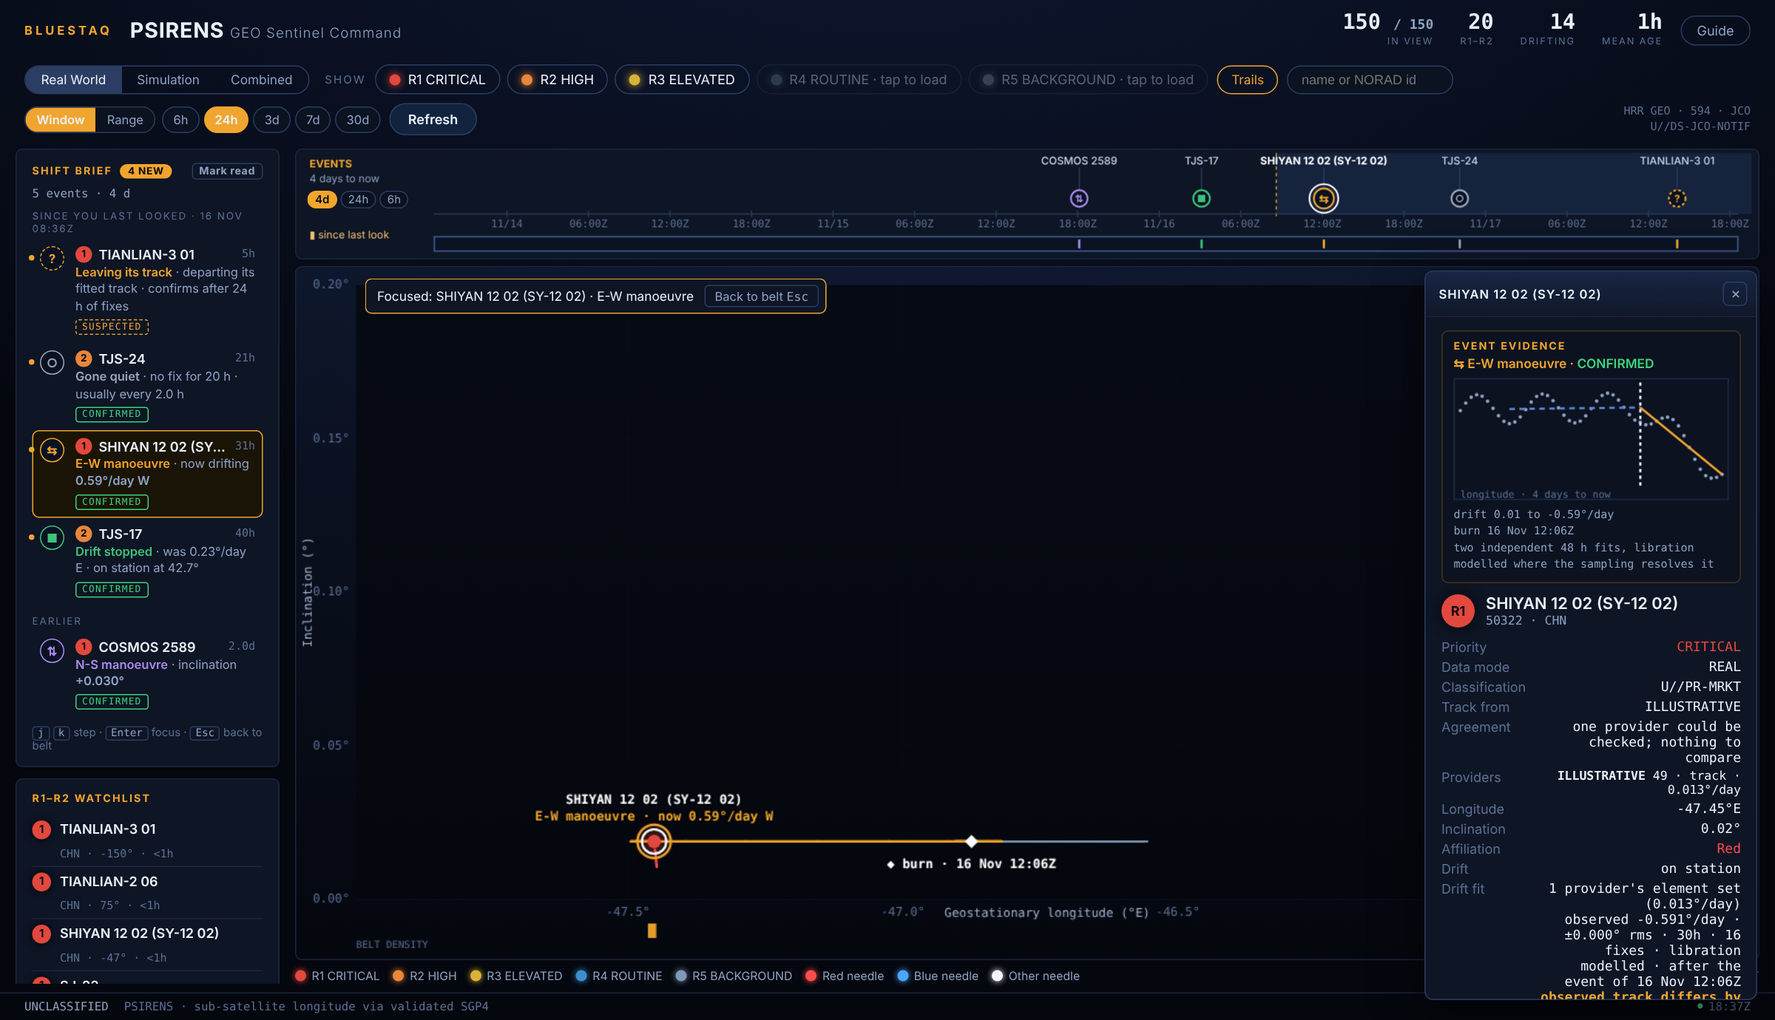
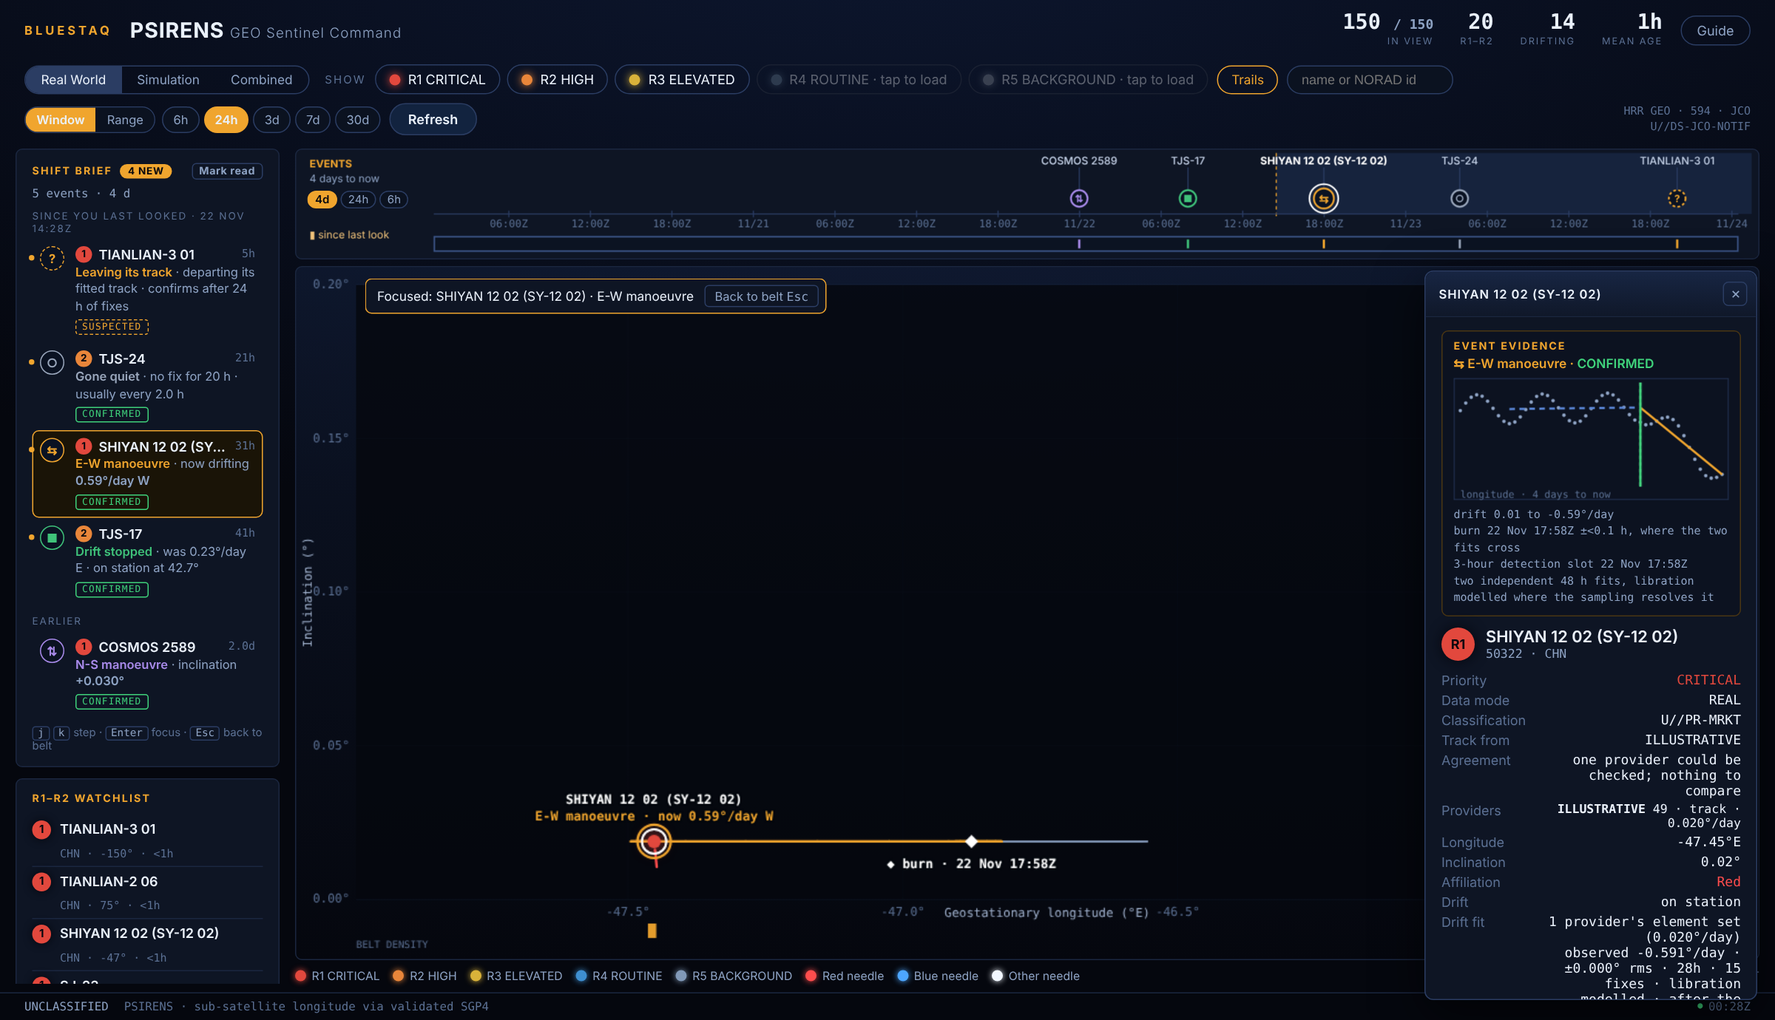
1.7.12: east-west burns timed where the before and after fits cross
Approved by Ash, 24 November 2026. The event epoch is the fit crossing,
refined three times and refused beyond 6 h of the 3-hour split (which then
stands); the id is keyed to the nearest hour; the stated half-width is 2.6
standard errors, measured to hold the true time 95 times in 100. The
evidence carries timed_by and crossing; the inspector states the burn time
with its range and the slot beneath it, the chart draws the crossing, and
the timeline list says 'the same minute' for crossing-timed burns.

Three server red cases (25 of 25 go red) and probe checks the 1.7.11 page
fails. Guide, figures, API reference and records updated.

Claude-Session: https://claude.ai/code/session_01K8o7Bfd3gt9XrWmiSEL7mf

Changed region(s): [[0.875, 0.6232, 1.0, 0.9971], [0.8125, 0.5297, 0.9688, 0.9036], [0.6562, 0.1558, 0.6875, 0.2181]]

diff --git a/src/psirens/static/guide.html b/src/psirens/static/guide.html
@@ -362,6 +362,17 @@ section.tourlit{box-shadow:0 0 0 2px #f0a52e,0 0 44px rgba(240,165,46,.17);borde
   evidence that peaks at the very edge of the data. A burn a few hours old cannot be measured yet:
   PSIRENS says so rather than guessing a rate, and confirms it, or clears it, once a day of fixes
   follows.</p>
+
+  <h3>When the burn happened</h3>
+  <p>A burn changes how fast an object drifts, not where it is. So the line fitted to the days before a
+  burn and the line fitted to the days after it meet at the burn. PSIRENS times every confirmed
+  east-west burn at that <b>crossing</b> and states a range beside it, for example
+  <i>burn 21 Nov 19:43Z &plusmn;0.5 h, where the two fits cross</i>. The range is drawn wide enough to
+  hold the true time in 95 burns out of 100 on a test belt with real scatter, not a nominal figure.</p>
+  <p>The 3-hour slot the detector confirmed it at is kept underneath, so you can see both. When the two
+  lines do not meet within two slots of each other, which happens with small burns, the slot stands and
+  the evidence says so. On the evidence chart the slot is the dotted white line and the crossing the
+  green one, with its range shaded.</p>
   <div class="note"><b>No event is not the same as nothing happened.</b> A drift change under about
   0.05&deg;/day sits inside station-keeping and is not called. A slow, patient approach will not
   appear here. The brief says &ldquo;no detectable events&rdquo; for exactly that reason.</div>
@@ -383,7 +394,8 @@ section.tourlit{box-shadow:0 0 0 2px #f0a52e,0 0 44px rgba(240,165,46,.17);borde
       <kbd>+</kbd> <kbd>&minus;</kbd> zoom and <kbd>0</kbd> returns to four days. Double-click does the same.</li>
     <li>Events too close to separate are drawn as a <b>numbered bubble</b>. Click it for a list, and
       click a name in the list to focus that event. If the list says <i>one 3-hour detection slot</i>,
-      the shared time is the detector's resolution, not a coordinated burn.</li>
+      the shared time is the detector's resolution, not a coordinated burn. If it says <i>the same
+      minute</i>, every burn in it was timed where its fits cross, and the times genuinely coincide.</li>
     <li>Names that would overlap are left off and counted at the right of the strip, rather than
       drawn on top of each other.</li>
   </ul>
@@ -1064,6 +1076,7 @@ section.tourlit{box-shadow:0 0 0 2px #f0a52e,0 0 44px rgba(240,165,46,.17);borde
       <tr><td class="k">RPO</td><td>Rendezvous and proximity operations: deliberate close approach between two objects.</td></tr>
       <tr><td class="k">Set aside</td><td>A provider that puts an object more than 1&deg; from where most of the other providers put it, at the same instant. Listed, and used for nothing.</td></tr>
       <tr><td class="k">Shift Brief</td><td>The list at the top of the rail of what changed in the last four days, split at your previous visit.</td></tr>
+      <tr><td class="k">Fit crossing</td><td>Where the drift line fitted before a burn meets the one fitted after it: the time PSIRENS gives an east-west burn, with a range that holds the true time 95 times in 100.</td></tr>
       <tr><td class="k">SGP4</td><td>The standard propagator used to turn an element set into a position.</td></tr>
       <tr><td class="k">Sidereal day</td><td>23h 56m 04s, one rotation of the Earth against the stars. The orbital period at GEO.</td></tr>
       <tr><td class="k">Sub-satellite longitude</td><td>The longitude directly beneath the object.</td></tr>
@@ -1088,6 +1101,8 @@ section.tourlit{box-shadow:0 0 0 2px #f0a52e,0 0 44px rgba(240,165,46,.17);borde
       <tr><td class="k">3 days</td><td>Trailing window the drift rate is fitted over.</td></tr>
       <tr><td class="k">6h / 36h / 72h</td><td>Fresh, Stale, and the point the age fade bottoms out.</td></tr>
       <tr><td class="k">0.02&deg;/day</td><td>Smallest drift-rate change the Shift Brief calls (six standard errors also needed).</td></tr>
+      <tr><td class="k">2.6 standard errors</td><td>Half-width of the range stated with a burn time, measured to hold the true time 95 times in 100.</td></tr>
+      <tr><td class="k">6 h</td><td>Furthest a fit crossing may sit from the 3-hour slot; beyond it the slot stands.</td></tr>
       <tr><td class="k">0.008&deg;</td><td>Smallest inclination step the Shift Brief calls.</td></tr>
       <tr><td class="k">48h each side</td><td>The two independent fits that confirm an E-W manoeuvre.</td></tr>
       <tr><td class="k">12h</td><td>No fix for this long, from an object that usually reports often: Gone quiet.</td></tr>
@@ -1209,14 +1224,14 @@ const HOTSPOTS={
     [72.6,17,4,5,"On the timeline","The focused event is ringed and lifted out of any bubble, so it is never hidden. Clicking a single glyph focuses its event."],
     [20.6,27.3,26,3.5,"Focus bar","Which event is in focus. Back to belt, or Esc, restores the view you came from."],
     [51.7,79.4,6,6,"The burn","The trail splits at the event: grey before, amber after, a diamond where it happened."],
-    [81.2,32.4,16.9,24.7,"Event evidence","Longitude against four days, with the two independent fits and the split. This is why PSIRENS believes it."],
+    [81.2,32.4,16.9,24.7,"Event evidence","Longitude against four days, with the two independent fits, the 3-hour slot dotted and, in green, where the fits cross: the burn time. This is why PSIRENS believes it."],
     [81,82.9,17.5,8.6,"Drift, after the event","Fitted after the burn, not across it, and the Drift fit row says so."]],
   inspector:[
     // Positions MEASURED by tools/guide_shots.js from the capture (1.7.4),
     // not estimated: the earlier table pointed at rows the scrolled capture
     // did not even show.
     [2,0.3,96,4,"Title bar","Drag it to move the panel. The cross closes it and leaves the plot untouched."],
-    [3,5,94,21,"Event evidence","Shown when the object has a Shift Brief event: the series, the fitted track and the split, so you can see why the event was raised."],
+    [3,5,94,21,"Event evidence","Shown when the object has a Shift Brief event: the series, the fitted track, the 3-hour slot and the burn time where the fits cross, so you can see why the event was raised and when."],
     [3,26.9,94,2.8,"Identity","Rank chip, common name, NORAD number and country code."],
     [3,30.5,94,4.8,"State","Priority, data mode, and the classification marking of the track provider's records."],
     [3,35.5,94,3.1,"Track from and agreement","The ONE provider whose positions are plotted, and whether the providers agree on where the object is, compared at the same instant."],
@@ -1457,6 +1472,10 @@ const QUESTIONS=[
    a:["An early warning only: confirm or clear it once a day of fixes follows",
       "It is probably hostile","The object has been lost","The data is stale"],right:0,
    why:"A burn a few hours old cannot be measured yet. Suspected is a reason to look again, not a finding."},
+  {q:"The evidence reads burn 21 Nov 19:43Z \u00b10.5 h, and below it 3-hour detection slot 21 Nov 18:09Z. Which time do you report?",
+   a:["19:43Z \u00b10.5 h, where the two fits cross","18:09Z, the slot",
+      "Halfway between the two","Neither: the event is unconfirmed"],right:0,
+   why:"The slot is where the detector confirmed the burn; the crossing is when it happened. The range holds the true time 95 times in 100."},
   {q:"The brief says no detectable events. What can you conclude?",
    a:["Nothing in the belt has moved","No drift change above the floor, about 0.05°/day or more, in four days",
       "The feed is down","Every object is station-kept"],right:1,

diff --git a/src/psirens/static/index.html b/src/psirens/static/index.html
@@ -1586,10 +1586,15 @@ function tlPinHTML(h){
   const [a,b]=tlSpread(h),same=b-a<6e4,iso=t=>esc(fmtZ(new Date(t).toISOString()));
   const rows=h.members.map(e=>{const k=evKind(e),o=findObj(e.object_id);
     return `<button type="button" class="tlrow" data-evid="${esc(e.id)}"><b style="color:${k.c}">${k.g}</b> ${esc(o?o.name:e.name)} <span class="m">${esc(k.n)}${e.tier==="SUSPECTED"?" \u00b7 suspected":""}</span></button>`;}).join("");
-  const head=`<div class="m">${h.members.length} events \u00b7 ${same?"one 3-hour detection slot, "+iso(a):iso(a)+" to "+iso(b)}</div>`
-    +(same?`<div class="m">The detector places these to the nearest 3-hour slot, so a shared time is its resolution, not a coordinated burn.</div>`:"");
+  const slot=h.members.some(e=>!crossTimed(e));
+  const head=`<div class="m">${h.members.length} events \u00b7 ${same?sharedLabel(slot)+iso(a):iso(a)+" to "+iso(b)}</div>`
+    +(same&&slot?`<div class="m">The detector places these to the nearest 3-hour slot, so a shared time is its resolution, not a coordinated burn.</div>`:"");
   const zoom=same?"":`<button type="button" class="tlzoomto">Zoom to these</button>`;
   return head+rows+zoom;}
+// 1.7.12: an E-W burn is timed where its two fits cross, so a shared time is
+// the slot's resolution only for events still timed to the slot.
+function crossTimed(e){return !!(e.evidence&&e.evidence.timed_by==="fit crossing");}
+function sharedLabel(slot){return slot?"one 3-hour detection slot, ":"the same minute, ";}
 function tlTipHTML(h){
   const rows=h.members.slice(0,6).map(e=>{const k=evKind(e),o=findObj(e.object_id);
     return `<div><b style="color:${k.c}">${k.g}</b> ${esc(o?o.name:e.name)} <span class="m">${esc(k.n)} · ${esc(fmtZ(e.epoch))}</span></div>`;}).join("");
@@ -1757,9 +1762,19 @@ function evidenceText(e){
   const lines=[];
   if(ev.before&&ev.after&&ev.quantity==="longitude"){lines.push(`drift ${ev.before.rate_deg_per_day.toFixed(2)} to ${ev.after.rate_deg_per_day.toFixed(2)}°/day`);}
   if(e.type==="NS"){lines.push(`inclination ${e.delta_inc_deg>0?"+":""}${e.delta_inc_deg.toFixed(3)}°`);}
-  lines.push(`${FOCUS_TAG[e.type]||"event"} ${fmtZ(e.epoch)}`);
+  lines.push(...burnLines(e,ev));
   if(ev.method){lines.push(ev.method);}
   return lines.map(esc).join("<br>");}
+// The burn as timed (1.7.12): where the before and after fits cross, with the
+// half-width that covers 95% of true burn times, and the 3-hour slot the
+// detector confirmed it at kept beside it for audit.
+function halfWidthText(h){return h<0.05?"\u00b1<0.1 h":"\u00b1"+h.toFixed(1)+" h";}
+function burnLines(e,ev){
+  const tag=FOCUS_TAG[e.type]||"event";
+  if(ev.crossing){return [`${tag} ${fmtZ(ev.crossing.epoch)} ${halfWidthText(ev.crossing.half_width_hours)}, where the two fits cross`,
+    `3-hour detection slot ${fmtZ(ev.split)}`];}
+  if(ev.timed_by==="3-hour split"){return [`${tag} ${fmtZ(e.epoch)}, the 3-hour slot (the fits do not cross near it)`];}
+  return [`${tag} ${fmtZ(e.epoch)}`];}
 function evidenceHTML(o){
   const e=eventFor(o.id);if(e===null){return "";}
   const k=evKind(e),chart=e.evidence&&e.evidence.series?`<canvas id="evcv" data-series="0"></canvas>`:"";
@@ -1781,8 +1796,13 @@ function drawEvidence(o){
   g.fillStyle="#8ea3c4";pts.forEach(p=>{if(p[0]>=t0){g.beginPath();g.arc(X(p[0]),Y(p[1]),1.6,0,7);g.fill();}});
   evLine(g,ev.before,X,Y,"#5A86D6",true);evLine(g,ev.after,X,Y,"#F0A52E",false);
   const sx=X(Date.parse(ev.split));g.strokeStyle="#eaf1fb";g.setLineDash([3,3]);g.beginPath();g.moveTo(sx,4);g.lineTo(sx,H-12);g.stroke();g.setLineDash([]);
+  if(ev.crossing){drawCrossing(g,X,H,ev.crossing);}
   g.fillStyle="#5b7093";g.font="9px "+MONO;g.textAlign="left";g.fillText(ev.quantity+" · 4 days to now",6,H-2);
   c.dataset.series=String(pts.length);}
+function drawCrossing(g,X,H,cr){
+  const t=Date.parse(cr.epoch),hw=cr.half_width_hours*36e5,x=X(t);
+  g.fillStyle="rgba(63,210,123,.22)";g.fillRect(X(t-hw),4,Math.max(2,X(t+hw)-X(t-hw)),H-16);
+  g.strokeStyle="#3fd27b";g.lineWidth=2;g.beginPath();g.moveTo(x,4);g.lineTo(x,H-12);g.stroke();}
 // -- keyboard: work the brief without the mouse --
 function stepBrief(d){
   if(!BRIEF_ORDER.length){return;}

diff --git a/docs/API-REFERENCE.html b/docs/API-REFERENCE.html
@@ -255,6 +255,7 @@ footer{max-width:1180px;margin:0 auto;padding:0 16px 30px;color:var(--muted);fon
   <h3>Response</h3>
   <p>Top level: <code>view</code>, <code>ranks</code>, <code>generated_at</code>, <code>reference_epoch</code>, <code>belt_current</code>, <code>lookback_hours</code>, <code>thresholds</code> {ew_floor_deg_per_day, ns_floor_deg, sigma, quiet_hours, max_residual_deg}, <code>compute_seconds</code>, <code>count</code>, <code>events[]</code>.</p>
   <p>Each event: <code>id</code>, <code>object_id</code>, <code>type</code>, <code>tier</code>, <code>epoch</code>, <code>detectable_from</code>, <code>data_mode</code>, <code>name</code>, <code>rank</code>, <code>country</code>, the type's numbers (<code>rate_before</code>/<code>rate_after</code>, <code>delta_inc_deg</code>, <code>age_hours</code>, <code>usual_cadence_hours</code>) and an <code>evidence</code> block (series, split, the two fitted lines, method). No event carries a projected approach.</p>
+  <p><span class="tag new">1.7.12</span> An east-west event's <code>epoch</code> is the <b>fit crossing</b>: where the trend fitted before the burn meets the one fitted after it. The evidence gains <code>timed_by</code> (<code>fit crossing</code> or <code>3-hour split</code>) and <code>crossing</code> {epoch, sigma_hours, half_width_hours, coverage 0.95, method}, or null when the fits do not meet within 6 hours of the split, in which case the split stands. The half-width is 2.6 standard errors, measured to hold the true burn time 95 times in 100. The <code>id</code> is keyed on the epoch rounded to the nearest hour, so it holds as new data arrives. <code>detectable_from</code> is a day after the later of the crossing and the split.</p>
   <div class="cmd"><pre>curl -s "$PSIRENS/api/events?view=real&amp;ranks=1,2,3" | jq '.events[] | {type, tier, name, epoch}'</pre><button type="button">Copy</button></div>
 </div>
 </details>

diff --git a/tools/layout_probe.js b/tools/layout_probe.js
@@ -574,6 +574,12 @@ function checkBodyFits(m, label) {
       fail(`Enter on the brief did not focus the selected event ` +
            `(${JSON.stringify(focus.id)}, bar shown ${focus.bar}).`);
     }
+    // 1.7.12: the burn is timed where the two fits cross, the 3-hour slot is
+    // kept beside it, and the chart draws the crossing.
+    const evText = (await page.textContent(".evid .em").catch(() => "")) || "";
+    if (!/where the two fits cross/.test(evText) || !/3-hour detection slot/.test(evText)) {
+      fail(`the evidence does not state the fit crossing and the slot: ${JSON.stringify(evText.slice(0, 200))}`);
+    }
     if (!(focus.span < 360)) {
       fail("focus mode did not frame the event: the plot is still at the full belt.");
     }
@@ -688,8 +694,10 @@ function checkBodyFits(m, label) {
         const pinned = Number(await page.$eval("#tline", (e) => e.dataset.pinned || "0"));
         const tipText = (await page.textContent("#tltip")) || "";
         if (pinned < 2) { fail(`clicking the bubble did not open its list (pinned ${pinned}).`); }
-        if (!/3-hour detection slot/.test(tipText) || !/not a coordinated burn/.test(tipText)) {
-          fail(`the bubble's list does not state the detection slot: ${JSON.stringify(tipText.slice(0, 160))}`);
+        // 1.7.12: both demo burns are timed where their fits cross, so the
+        // list says they share a minute, and does NOT blame the 3-hour slot.
+        if (!/the same minute/.test(tipText) || /not a coordinated burn/.test(tipText)) {
+          fail(`the bubble's list misdescribes two crossing-timed burns: ${JSON.stringify(tipText.slice(0, 160))}`);
         }
         await page.keyboard.press("Escape");
         const afterOne = await page.evaluate(() => ({

diff --git a/tests/test_events.py b/tests/test_events.py
@@ -382,17 +382,22 @@ def test_a_burn_is_timed_where_the_fits_cross():
 
 def test_the_event_id_holds_as_data_arrives():
     """The id churn of 17 November: on the split, the same burn took a new id as
-    the store advanced. Keyed on the crossing to the hour, it holds."""
-    rng = random.Random(5)
-    burn = END - timedelta(hours=58, minutes=24)
+    the store advanced. A burn 32 h old, whose after-window is still filling,
+    so its crossing moves by minutes every hour: keyed to the hour, the id
+    holds. The epoch MUST move here, or the test proves nothing (an id keyed on
+    the exact epoch would pass a burn whose crossing stood still)."""
+    rng = random.Random(1)
+    burn = END - timedelta(hours=32, minutes=24)
     full = _synth(rng, burn=burn, dr=-0.3, end=END + timedelta(hours=8))
-    ids = set()
+    ids, epochs = set(), set()
     for k in range(9):
         now = END + timedelta(hours=k)
         held = [s for s in full if datetime.fromisoformat(s["epoch"]) <= now]
         ev = _ew(detect(_store({"B": held}), TH, now=now, stale_after_hours=24))
-        if ev:
-            ids.add(ev[0]["id"])
+        assert ev, f"hour {k}: the burn must be detected"
+        ids.add(ev[0]["id"])
+        epochs.add(ev[0]["epoch"])
+    assert len(epochs) > 1, "the crossing never moved, so this test is vacuous"
     assert len(ids) == 1, ids
 
 
@@ -421,3 +426,25 @@ def test_the_drift_is_cut_at_the_crossing():
     out = detect(_store({"B": _synth(rng, burn=burn, dr=-0.3)}), TH,
                  now=END, stale_after_hours=24)
     assert latest_splits(out["events"])["B"].isoformat() == _ew(out)[0]["evidence"]["crossing"]["epoch"]
+
+
+def test_the_stated_range_covers_95_percent_of_true_burn_times():
+    """Owner decision, 24 November 2026: the half-width is widened to measured
+    95% coverage, not the nominal 2 sigma. On this suite's own generator (80
+    fixed seeds) the shipped factor covers 97%; 2 sigma would cover 93%, so
+    reverting CROSS_COVERAGE_K to 2 fails this."""
+    inside = n = 0
+    for seed in range(1, 81):
+        rng = random.Random(seed)
+        burn = END - timedelta(hours=rng.uniform(40, 70))
+        dr = rng.choice([0.1, 0.3, 1.0]) * rng.choice([-1, 1])
+        ev = _ew(detect(_store({"B": _synth(rng, burn=burn, dr=dr)}), TH,
+                        now=END, stale_after_hours=24))
+        cross = ev[0]["evidence"]["crossing"] if ev else None
+        if not cross or cross["sigma_hours"] <= 0:
+            continue
+        n += 1
+        err = abs((datetime.fromisoformat(cross["epoch"]) - burn).total_seconds()) / 3600
+        inside += err <= cross["half_width_hours"]
+    assert n >= 60, f"only {n} burns timed at a crossing"
+    assert inside / n >= 0.95, f"{inside} of {n} inside the stated range"

diff --git a/audits/2026-11-17-tle-provenance/redcases_1_7_5.py b/audits/2026-11-17-tle-provenance/redcases_1_7_5.py
@@ -108,6 +108,19 @@ CASES = [
   '                          OUTCOME_ATTR: outcome(status["code"]),\n',
   '',
   "tests/test_logging.py", "test_the_audit_line_states_the_outcome"),
+ # 1.7.12, east-west burn timing (owner approval, 24 November 2026).
+ ("the burn stamped at the 3-hour split again", "src/psirens/events.py",
+  "    when = cross.when if cross is not None else split.when\n",
+  "    when = split.when\n",
+  "tests/test_events.py", "test_a_burn_is_timed_where_the_fits_cross"),
+ ("the event id keyed on the exact epoch, not the hour", "src/psirens/events.py",
+  "               max(when, split.when) + timedelta(hours=EW_MIN_AFTER_H), hour_key(when))",
+  "               max(when, split.when) + timedelta(hours=EW_MIN_AFTER_H), None)",
+  "tests/test_events.py", "test_the_event_id_holds_as_data_arrives"),
+ ("the stated range back at nominal 2 sigma", "src/psirens/events.py",
+  "CROSS_COVERAGE_K = 2.6",
+  "CROSS_COVERAGE_K = 2.0",
+  "tests/test_events.py", "test_the_stated_range_covers_95_percent_of_true_burn_times"),
 ]
 
 

diff --git a/src/psirens/main.py b/src/psirens/main.py
@@ -720,7 +720,7 @@ def create_app(cfg: Config | None = None,
 
     refresher.on_cycle = _warm_events
 
-    app = FastAPI(title="PSIRENS", version="1.7.11", lifespan=_lifespan)
+    app = FastAPI(title="PSIRENS", version="1.7.12", lifespan=_lifespan)
     # Request context for every log line, and one standard request line. The
     # X-Auth-Request-Email header becomes user.email, as the standard requires;
     # LOG_USER_EMAIL=false switches that off (see config.py).

diff --git a/CLAUDE.md b/CLAUDE.md
@@ -80,6 +80,29 @@ done in 1.7.10; (5) `TEAM_TOKEN` is NOT SET in the deployment, so write
 routes are guarded by the platform sign-in alone and the interface's Pull
 control was working, only blind to its own answer.
 
+1.7.12, 24 November 2026: EAST-WEST BURN TIMING, BUILT on Ash's approval.
+`events.ew_crossing` refines the winning 3-hour split to where the before and
+after trends meet (refined three times, refused beyond `CROSS_CLAMP_H` = 6 h,
+the split then stands); the event epoch is the crossing, the id keys on it
+rounded to the hour (`hour_key`), the evidence carries `timed_by` and
+`crossing` {epoch, sigma_hours, half_width_hours, coverage, method}, and
+`detectable_from` is a day after the later of crossing and split. The drift
+cut follows the epoch through `latest_splits`. `CROSS_COVERAGE_K` = 2.6,
+MEASURED on the shipped function (95th percentile 2.583 on seed 7; 98.3% on
+independent seed 8; 97% on the test generator against 93% at 2 sigma). SPA:
+evidence text "burn ... +/-X h, where the two fits cross" with the slot
+beneath, a green crossing line and band on the chart, and the timeline list
+says "the same minute" when every member was crossing-timed. PROVEN: three
+server red cases (25 of 25 go red); the id test was VACUOUS at first (its
+58 h-old burn's crossing never moved) and now uses a 32 h-old burn whose
+crossing moves every hour, asserting the move; the 1.7.11 page from `main`
+fails the probe on the evidence text and the bubble wording. NOT GUARDED,
+stated: the early-warning training start now follows the crossing too, a
+small shift no test separates. Guide: "When the burn happened", timeline
+note, glossary, reference card, two hotspot captions, a 17th self-check
+question; figures recaptured (the seeded burn sits on the grid, so crossing
+and slot coincide in the figure). Upload 1.7.12: it carries 1.7.11.
+
 1.7.11, 24 November 2026: LOGGING CHECK, two new Medium findings (Advisory,
 blocking from 1 December) on the upload after 1.7.8: `user_agent.original`
 missing from request lines, `event.outcome` missing from the audit line.
